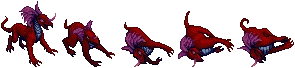
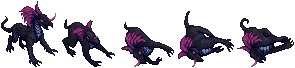
Preview: đổi màu ngẫu nhiên quái Hoa Sơn (map 1).
lizard=black, imp=red, ratman=black; spider/cyclops hue-shift.

diff --git a/index.html b/index.html
@@ -9,10 +9,10 @@
 <link rel="manifest" href="manifest.json">
 <title>Võ Lâm Idle</title>
 <link rel="stylesheet" href="fonts/ibm-plex-mono.css">
-<link rel="stylesheet" href="style.css?v=207">
-<link rel="stylesheet" href="jx1ui.css?v=207">
-<link rel="stylesheet" href="jx1ui2.css?v=207">
-<link rel="stylesheet" href="ui20.css?v=207">
+<link rel="stylesheet" href="style.css?v=208">
+<link rel="stylesheet" href="jx1ui.css?v=208">
+<link rel="stylesheet" href="jx1ui2.css?v=208">
+<link rel="stylesheet" href="ui20.css?v=208">
 </head>
 <body>
 <div id="app">
@@ -81,68 +81,68 @@
   <div id="modal" class="hidden" role="dialog" aria-modal="true"><div class="mbox" tabindex="-1"><button class="mx" id="mClose">✕</button><div id="mBody"></div></div></div>
   <div id="toast" role="status" aria-live="polite"></div>
 </div>
-<script src="data.js?v=207"></script>
-<script src="setvi.js?v=207"></script>
-<script src="setfix.js?v=207"></script>
-<script src="world.js?v=207"></script>
-<script src="zones2.js?v=207"></script>
-<script src="js/som_hoason_data.js?v=207"></script>
-<script src="js/som_hoason.js?v=207"></script>
-<script src="sound.js?v=207"></script>
-<script src="fx.js?v=207"></script>
-<script src="jmo.js?v=207"></script>
-<script src="jmo2.js?v=207"></script>
-<script src="js/core.js?v=207"></script>
-<script src="js/mapobs.js?v=207"></script>
-<script src="js/stats.js?v=207"></script>
-<script src="js/vocong.js?v=207"></script>
-<script src="js/skillsys.js?v=207"></script>
-<script src="js/kytran.js?v=207"></script>
-<script src="js/loot.js?v=207"></script>
-<script src="rdata.js?v=207"></script>
-<script src="js/sets.js?v=207"></script>
-<script src="js/recipes.js?v=207"></script>
-<script src="js/combat.js?v=207"></script>
-<script src="js/field.js?v=207"></script>
-<script src="js/ride.js?v=207"></script>
-<script src="js/save.js?v=207"></script>
-<script src="js/render.js?v=207"></script>
-<script src="js/som_anim.js?v=207"></script>
-<script src="js/jxmis.js?v=207"></script>
-<script src="jxstate.js?v=207"></script>
-<script src="fx2.js?v=207"></script>
-<script src="fx3.js?v=207"></script>
-<script src="js/skillfx.js?v=207"></script>
-<script src="js/look.js?v=207"></script>
-<script src="js/jxparts.js?v=207"></script>
-<script src="js/audio.js?v=207"></script>
-<script src="js/ui.js?v=207"></script>
-<script src="js/control.js?v=207"></script>
-<script src="js/shop.js?v=207"></script>
-<script src="js/potsel.js?v=207"></script>
-<script src="js/rewards.js?v=207"></script>
-<script src="js/title.js?v=207"></script>
-<script src="js/records.js?v=207"></script>
-<script src="js/horse.js?v=207"></script>
-<script src="js/thanma.js?v=207"></script>
-<script src="js/dungeon.js?v=207"></script>
-<script src="js/giangho.js?v=207"></script>
-<script src="js/forge.js?v=207"></script>
-<script src="js/epdo.js?v=207"></script>
-<script src="js/thuyen.js?v=207"></script>
-<script src="js/mode.js?v=207"></script>
-<script src="js/tabs2.js?v=207"></script>
-<script src="js/auto.js?v=207"></script>
-<script src="js/guide.js?v=207"></script>
-<script src="js/stash.js?v=207"></script>
-<script src="js/donkho.js?v=207"></script>
-<script src="js/name.js?v=207"></script>
-<script src="js/chatcfg.js?v=207"></script>
-<script src="js/chat.js?v=207"></script>
-<script src="js/net.js?v=207"></script>
-<script src="js/ui20.js?v=207"></script>
-<script src="js/ui20win.js?v=207"></script>
-<script src="js/admin.js?v=207"></script>
-<script src="js/main.js?v=207"></script>
+<script src="data.js?v=208"></script>
+<script src="setvi.js?v=208"></script>
+<script src="setfix.js?v=208"></script>
+<script src="world.js?v=208"></script>
+<script src="zones2.js?v=208"></script>
+<script src="js/som_hoason_data.js?v=208"></script>
+<script src="js/som_hoason.js?v=208"></script>
+<script src="sound.js?v=208"></script>
+<script src="fx.js?v=208"></script>
+<script src="jmo.js?v=208"></script>
+<script src="jmo2.js?v=208"></script>
+<script src="js/core.js?v=208"></script>
+<script src="js/mapobs.js?v=208"></script>
+<script src="js/stats.js?v=208"></script>
+<script src="js/vocong.js?v=208"></script>
+<script src="js/skillsys.js?v=208"></script>
+<script src="js/kytran.js?v=208"></script>
+<script src="js/loot.js?v=208"></script>
+<script src="rdata.js?v=208"></script>
+<script src="js/sets.js?v=208"></script>
+<script src="js/recipes.js?v=208"></script>
+<script src="js/combat.js?v=208"></script>
+<script src="js/field.js?v=208"></script>
+<script src="js/ride.js?v=208"></script>
+<script src="js/save.js?v=208"></script>
+<script src="js/render.js?v=208"></script>
+<script src="js/som_anim.js?v=208"></script>
+<script src="js/jxmis.js?v=208"></script>
+<script src="jxstate.js?v=208"></script>
+<script src="fx2.js?v=208"></script>
+<script src="fx3.js?v=208"></script>
+<script src="js/skillfx.js?v=208"></script>
+<script src="js/look.js?v=208"></script>
+<script src="js/jxparts.js?v=208"></script>
+<script src="js/audio.js?v=208"></script>
+<script src="js/ui.js?v=208"></script>
+<script src="js/control.js?v=208"></script>
+<script src="js/shop.js?v=208"></script>
+<script src="js/potsel.js?v=208"></script>
+<script src="js/rewards.js?v=208"></script>
+<script src="js/title.js?v=208"></script>
+<script src="js/records.js?v=208"></script>
+<script src="js/horse.js?v=208"></script>
+<script src="js/thanma.js?v=208"></script>
+<script src="js/dungeon.js?v=208"></script>
+<script src="js/giangho.js?v=208"></script>
+<script src="js/forge.js?v=208"></script>
+<script src="js/epdo.js?v=208"></script>
+<script src="js/thuyen.js?v=208"></script>
+<script src="js/mode.js?v=208"></script>
+<script src="js/tabs2.js?v=208"></script>
+<script src="js/auto.js?v=208"></script>
+<script src="js/guide.js?v=208"></script>
+<script src="js/stash.js?v=208"></script>
+<script src="js/donkho.js?v=208"></script>
+<script src="js/name.js?v=208"></script>
+<script src="js/chatcfg.js?v=208"></script>
+<script src="js/chat.js?v=208"></script>
+<script src="js/net.js?v=208"></script>
+<script src="js/ui20.js?v=208"></script>
+<script src="js/ui20win.js?v=208"></script>
+<script src="js/admin.js?v=208"></script>
+<script src="js/main.js?v=208"></script>
 </body>
 </html>

diff --git a/js/som_hoason_data.js b/js/som_hoason_data.js
@@ -1,3 +1,3 @@
-/* SoM Hoa Sơn: mỗi act 1 strip riêng (idle/move/blow+back/hurt/death), chỉ hướng 3 + flip. */
+/* SoM Hoa Sơn: preview recolor random map1. */
 'use strict';
 window.SOM_HOASON={"roster": [{"id": 860,"n": "Nhện Độc","key": "som_spider","anim": {"st": {"f": "som_spider_st.webp","n": 4,"d": 1,"w": 71,"h": 67,"ax": 35,"ay": 65,"ms": 320,"fixed": 1,"flip": 1},"run": {"f": "som_spider_run.webp","n": 4,"d": 1,"w": 77,"h": 68,"ax": 38,"ay": 66,"ms": 180,"fixed": 1,"flip": 1},"at": {"f": "som_spider_at.webp","n": 5,"d": 1,"w": 89,"h": 64,"ax": 44,"ay": 62,"ms": 140,"fixed": 1,"flip": 1},"hurt": {"f": "som_spider_hurt.webp","n": 3,"d": 1,"w": 69,"h": 60,"ax": 34,"ay": 58,"ms": 180,"fixed": 1,"flip": 1},"die": {"f": "som_spider_die.webp","n": 4,"d": 1,"w": 76,"h": 61,"ax": 38,"ay": 59,"ms": 220,"fixed": 1,"flip": 1}},"img": "img/m/som_spider.png","sz": [63,52,31,52],"rmax": [60,90,75,60,75],"run": 5,"sk": [53,53,53,53],"faceOnly": 1},{"id": 861,"n": "Xích Thú","key": "som_lizard","anim": {"st": {"f": "som_lizard_st.webp","n": 4,"d": 1,"w": 63,"h": 68,"ax": 31,"ay": 66,"ms": 320,"fixed": 1,"flip": 1},"run": {"f": "som_lizard_run.webp","n": 4,"d": 1,"w": 71,"h": 61,"ax": 35,"ay": 59,"ms": 180,"fixed": 1,"flip": 1},"at": {"f": "som_lizard_at.webp","n": 6,"d": 1,"w": 72,"h": 74,"ax": 36,"ay": 72,"ms": 140,"fixed": 1,"flip": 1},"hurt": {"f": "som_lizard_hurt.webp","n": 3,"d": 1,"w": 55,"h": 50,"ax": 27,"ay": 48,"ms": 180,"fixed": 1,"flip": 1},"die": {"f": "som_lizard_die.webp","n": 5,"d": 1,"w": 59,"h": 68,"ax": 29,"ay": 66,"ms": 220,"fixed": 1,"flip": 1}},"img": "img/m/som_lizard.png","sz": [55,64,27,64],"rmax": [60,60,75,90,75],"run": 6,"sk": [53,53,53,53],"faceOnly": 1},{"id": 862,"n": "Chuột Yêu","key": "som_ratman","anim": {"st": {"f": "som_ratman_st.webp","n": 7,"d": 1,"w": 68,"h": 69,"ax": 34,"ay": 67,"ms": 320,"fixed": 1,"flip": 1},"run": {"f": "som_ratman_run.webp","n": 4,"d": 1,"w": 70,"h": 68,"ax": 35,"ay": 66,"ms": 180,"fixed": 1,"flip": 1},"at": {"f": "som_ratman_at.webp","n": 5,"d": 1,"w": 84,"h": 81,"ax": 42,"ay": 79,"ms": 140,"fixed": 1,"flip": 1},"hurt": {"f": "som_ratman_hurt.webp","n": 3,"d": 1,"w": 61,"h": 61,"ax": 30,"ay": 59,"ms": 180,"fixed": 1,"flip": 1},"die": {"f": "som_ratman_die.webp","n": 3,"d": 1,"w": 100,"h": 61,"ax": 50,"ay": 59,"ms": 220,"fixed": 1,"flip": 1}},"img": "img/m/som_ratman.png","sz": [63,60,31,60],"rmax": [90,75,60,75,75],"run": 6,"sk": [53,53,53,53],"faceOnly": 1},{"id": 863,"n": "Tiểu Yêu","key": "som_imp","anim": {"st": {"f": "som_imp_st.webp","n": 5,"d": 1,"w": 62,"h": 58,"ax": 31,"ay": 56,"ms": 320,"fixed": 1,"flip": 1},"run": {"f": "som_imp_run.webp","n": 6,"d": 1,"w": 57,"h": 77,"ax": 28,"ay": 75,"ms": 180,"fixed": 1,"flip": 1},"at": {"f": "som_imp_at.webp","n": 5,"d": 1,"w": 68,"h": 75,"ax": 34,"ay": 73,"ms": 140,"fixed": 1,"flip": 1},"hurt": {"f": "som_imp_hurt.webp","n": 3,"d": 1,"w": 62,"h": 56,"ax": 31,"ay": 54,"ms": 180,"fixed": 1,"flip": 1},"die": {"f": "som_imp_die.webp","n": 5,"d": 1,"w": 64,"h": 57,"ax": 32,"ay": 55,"ms": 220,"fixed": 1,"flip": 1}},"img": "img/m/som_imp.png","sz": [57,55,28,55],"rmax": [75,60,75,90,60],"run": 7,"sk": [197,197,197,197],"faceOnly": 1},{"id": 864,"n": "Độc Nhãn Quỷ","key": "som_cyclops","anim": {"st": {"f": "som_cyclops_st.webp","n": 4,"d": 1,"w": 84,"h": 121,"ax": 42,"ay": 119,"ms": 320,"fixed": 1,"flip": 1},"run": {"f": "som_cyclops_run.webp","n": 4,"d": 1,"w": 91,"h": 122,"ax": 45,"ay": 120,"ms": 180,"fixed": 1,"flip": 1},"at": {"f": "som_cyclops_at.webp","n": 6,"d": 1,"w": 107,"h": 152,"ax": 53,"ay": 150,"ms": 140,"fixed": 1,"flip": 1},"hurt": {"f": "som_cyclops_hurt.webp","n": 3,"d": 1,"w": 100,"h": 114,"ax": 50,"ay": 112,"ms": 180,"fixed": 1,"flip": 1},"die": {"f": "som_cyclops_die.webp","n": 6,"d": 1,"w": 141,"h": 114,"ax": 70,"ay": 112,"ms": 220,"fixed": 1,"flip": 1}},"img": "img/m/som_cyclops.png","sz": [45,62,22,62],"rmax": [75,60,75,75,90],"run": 4,"sk": [101,240,53,53],"faceOnly": 1}],"zoneMobs": [860,861,862,863],"zoneBoss": 864};

diff --git a/sw.js b/sw.js
@@ -1,7 +1,7 @@
 // Ma nguon (js/css/html): mang truoc, cache du phong (luon lay ban moi, choi offline khi mat mang).
 // Hinh / am thanh / font (nang, it doi): lay ngay tu cache, dong thoi tai lai ngam de cap nhat (stale-while-revalidate).
 // Cache hinh giu qua cac ban cap nhat -> khong phai tai lai ~200 MB ban do / sprite moi lan doi phien ban.
-const C = 'jxidle-v207', IMG = 'jxidle-img-1';
+const C = 'jxidle-v208', IMG = 'jxidle-img-1';
 const ASSET = /\.(png|jpe?g|webp|gif|mp3|ogg|wav|m4a|woff2?|ttf)$/i;
 self.addEventListener('install', e => self.skipWaiting());
 self.addEventListener('activate', e => e.waitUntil(caches.keys().then(ks => Promise.all(ks.filter(k => k !== C && k !== IMG).map(k => caches.delete(k)))).then(() => self.clients.claim())));
